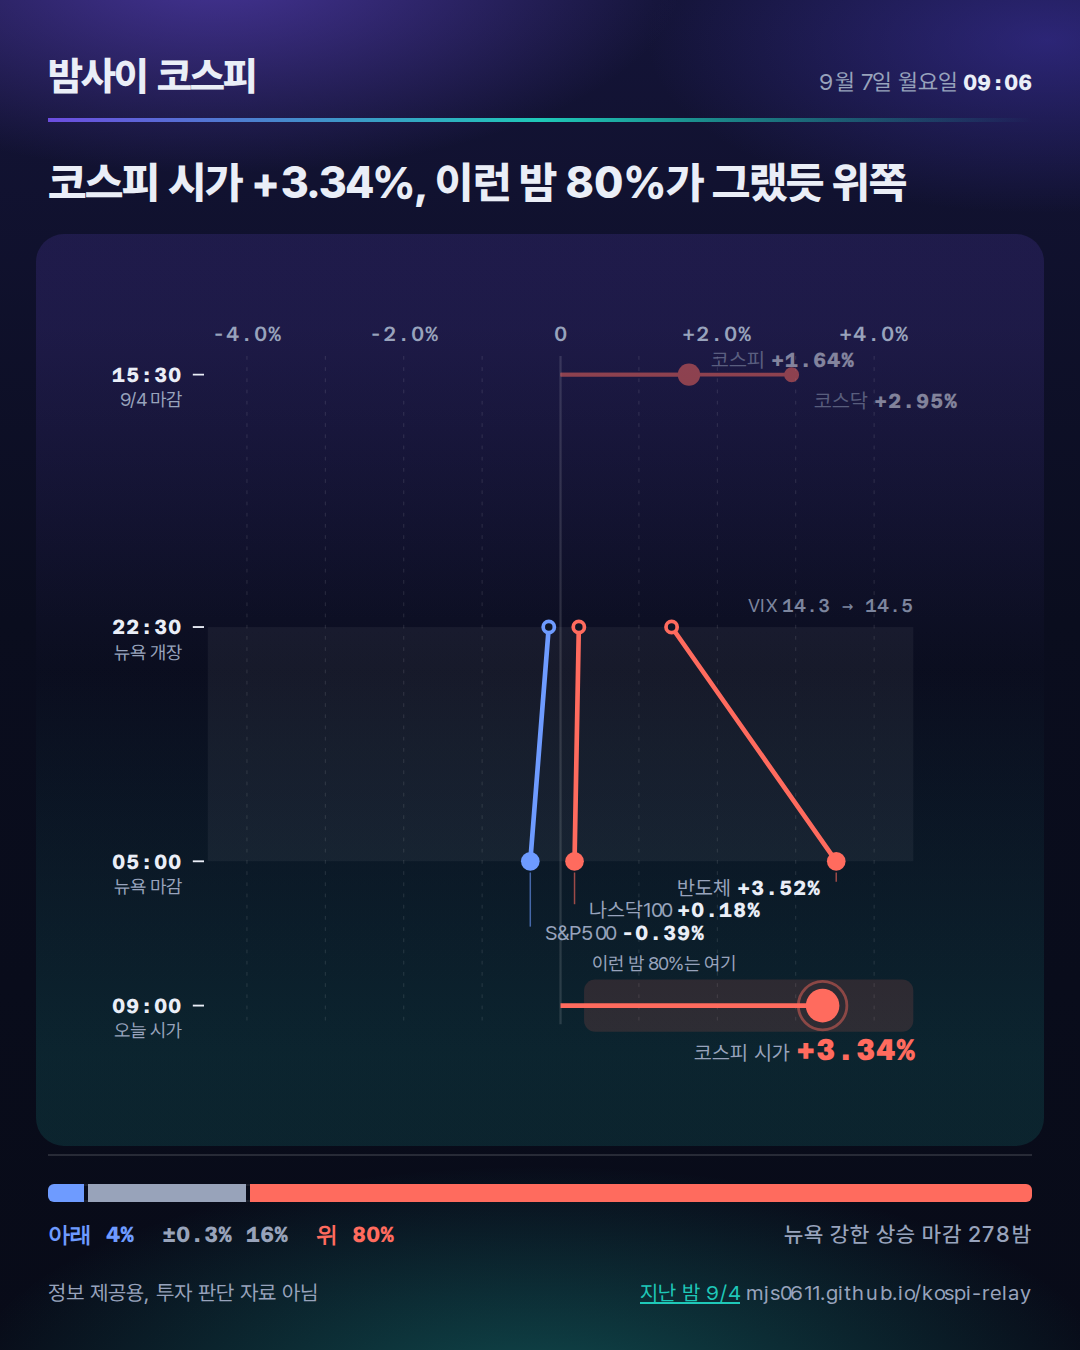
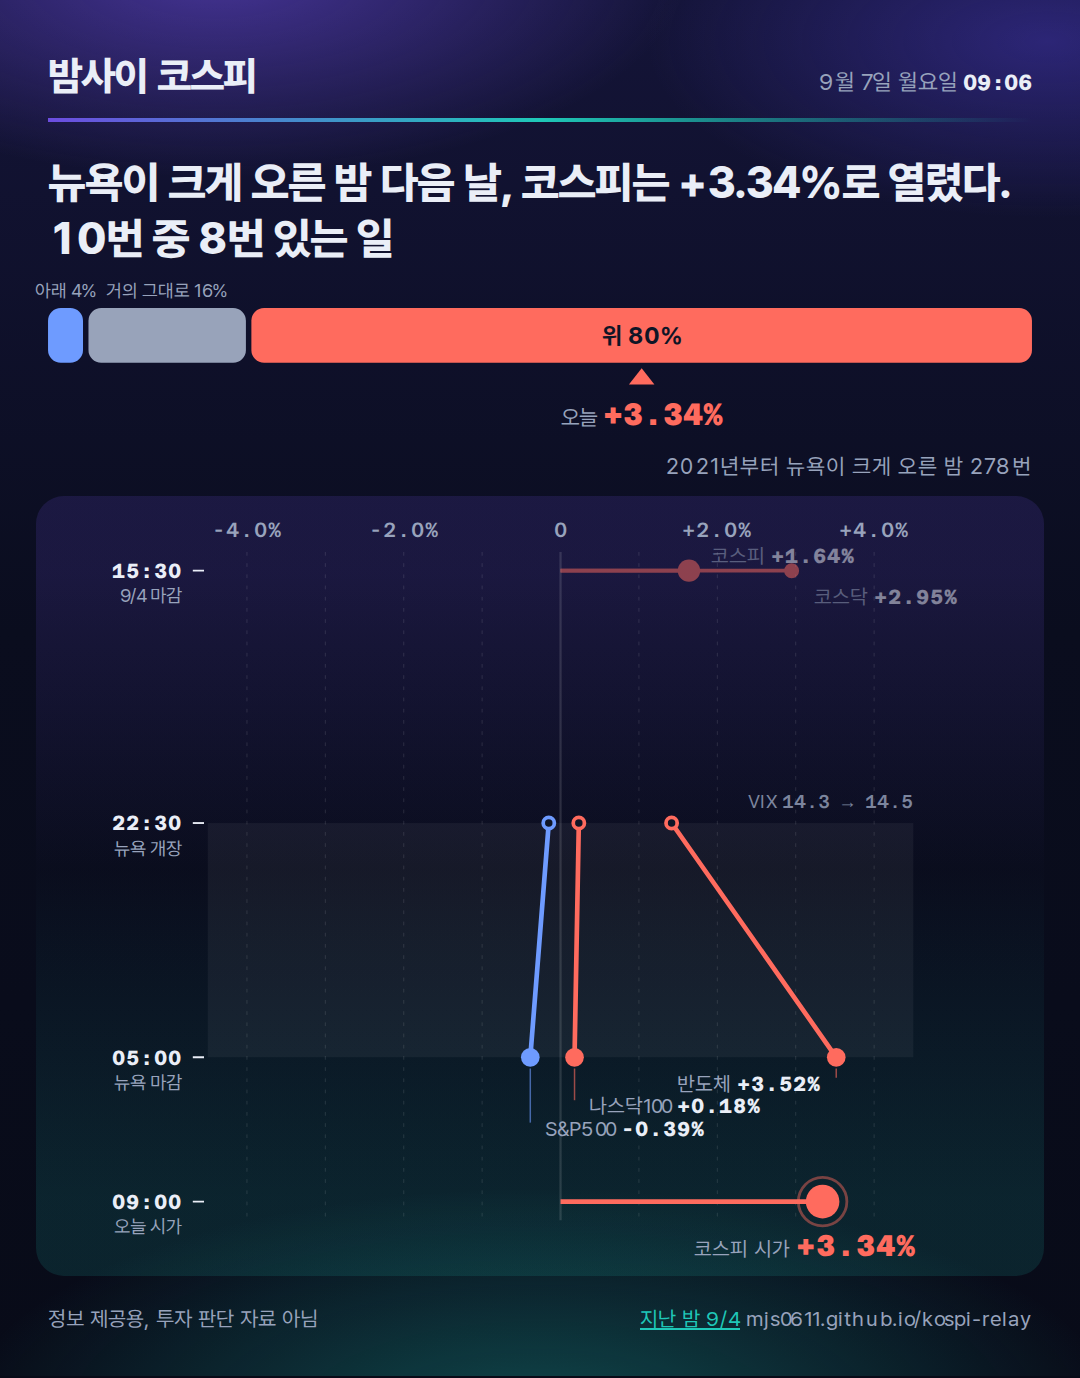
deploy: db82386d8631ba537fb2fa24145c9cd81058ee42

diff --git a/2026-09-07/index.html b/2026-09-07/index.html
@@ -1,7 +1,7 @@
 <!doctype html><html lang="ko"><head><meta charset="utf-8"><meta name="viewport" content="width=device-width,initial-scale=1">
 <title>밤사이 코스피 · 2026-09-07</title>
 <meta name="description" content="전일 코스피 마감에서 밤사이 뉴욕을 거쳐 오늘 코스피 시가까지, 한 장.">
-<meta property="og:title" content="밤사이 코스피 09.07"><meta property="og:image" content="https://mjs0611.github.io/kospi-relay/relay.png"><meta property="og:description" content="뉴욕이 이렇게 마감한 밤 278번, 코스피 시가는 80%가 위로 열렸다">
+<meta property="og:title" content="밤사이 코스피 09.07"><meta property="og:image" content="https://mjs0611.github.io/kospi-relay/relay.png"><meta property="og:description" content="뉴욕이 크게 오른 밤. 다음 날 코스피는 10번 중 8번 위로 열렸다">
 <link rel="stylesheet" href="https://cdn.jsdelivr.net/gh/orioncactus/pretendard@v1.3.9/dist/web/variable/pretendardvariable-dynamic-subset.min.css">
 <link href="https://fonts.googleapis.com/css2?family=Azeret+Mono:wght@500;700;800&display=swap" rel="stylesheet">
 <style>
@@ -25,20 +25,30 @@ h1{font-size:20px;font-weight:800;letter-spacing:-.02em;margin:0}
 .stamp{font-size:11.5px;color:var(--muted);text-align:right;line-height:1.5;letter-spacing:-.01em;white-space:nowrap}.stamp b{font-family:var(--mono);color:var(--ink);font-weight:700;font-size:11px}
 /* ★ 시간축 광원 — SVG 세로축이 곧 시간이다(위 15:30 전일 마감 → 아래 09:00 오늘 시가).
    축은 SVG 높이의 10~90% 구간(sy가 40..H-40으로 매핑)이라 스톱을 거기 맞췄다. 장식이 아니라 제목 */
-.chart{flex:1;display:flex;align-items:center;margin:10px -6px 0;border-radius:14px;overflow:hidden;
+.chart{flex:1;display:flex;align-items:center;margin:8px -6px 0;border-radius:14px;overflow:hidden;
 background:linear-gradient(180deg,rgba(108,77,224,.16) 10%,rgba(24,29,58,.05) 48%,rgba(31,200,184,.13) 90%)}
 svg{width:100%;height:auto;display:block}
 /* 헤드라인. 카드의 질문 또는 답, 한 문장. 색은 차트가 말한다. 글은 잉크 한 색 */
 .headline{font-size:22px;font-weight:800;letter-spacing:-.022em;line-height:1.3;margin:16px 0 2px;word-break:keep-all;font-variant-numeric:tabular-nums}
-.freq{border-top:1px solid var(--rule);padding-top:14px;margin-top:4px}
-.bar{display:flex;height:9px;border-radius:3px;overflow:hidden;gap:2px;box-shadow:inset 0 0 0 1px rgba(255,255,255,.08)}.seg{min-width:2px}
-.legend{display:flex;gap:14px;align-items:baseline;font-family:var(--mono);font-size:11px;font-weight:700;margin:9px 0 0}.legend .n{margin-left:auto;font-family:var(--sans);font-weight:500;color:var(--muted)}
+/* 빈도 막대: 카드의 주장. 칸의 폭이 곧 빈도, 마커가 오늘 */
+.freqbar{margin:18px 0 0;overflow:visible}.freqbar svg{width:100%;height:auto;display:block;overflow:visible}
+.cap{font-size:11px;color:var(--muted);margin:2px 0 0;text-align:right}
 footer{margin-top:auto;padding-top:14px;font-size:10.5px;color:var(--muted);line-height:1.55;display:flex;justify-content:space-between;gap:12px}
 footer a{color:var(--dawn)}
 @media (max-width:480px){.sheet{padding:18px 14px 16px}.lede{font-size:15px}header{flex-direction:column;align-items:flex-start;gap:4px}.stamp{text-align:left}}
 </style></head><body><div class="sheet">
 <header><h1>밤사이 코스피</h1><div class="stamp">9월 7일 월요일 <b>09:06</b></div></header>
-<p class="headline">코스피 시가 +3.34%, 이런 밤 80%가 그랬듯 위쪽</p>
+<p class="headline">뉴욕이 크게 오른 밤 다음 날, 코스피는 +3.34%로 열렸다. 10번 중 8번 있는 일</p>
+<div class="freqbar"><svg viewBox="0 0 540 78" xmlns="http://www.w3.org/2000/svg" font-family="var(--sans)">
+<rect x="0.0" y="0" width="19.2" height="30" rx="7" fill="var(--down)"/>
+<text x="9.6" y="-6" text-anchor="middle" fill="var(--muted)" font-size="10">아래 4%</text>
+<rect x="22.2" y="0" width="86.4" height="30" rx="7" fill="var(--flat)"/>
+<text x="65.4" y="-6" text-anchor="middle" fill="var(--muted)" font-size="10">거의 그대로 16%</text>
+<rect x="111.6" y="0" width="428.4" height="30" rx="7" fill="var(--up)"/>
+<text x="325.8" y="19.5" text-anchor="middle" fill="var(--paper)" font-size="13" font-weight="700">위 80%</text>
+<path d="M318.8,42 L332.8,42 L325.8,33 Z" fill="var(--up)"/>
+<text x="325.8" y="64" text-anchor="middle" fill="var(--ink)"><tspan fill="var(--muted)" font-size="12">오늘 </tspan><tspan font-family="var(--mono)" font-size="17" font-weight="800" fill="var(--up)">+3.34%</tspan></text>
+</svg></div><p class="cap">2021년부터 뉴욕이 크게 오른 밤 278번</p>
 <div class="chart"><svg viewBox="0 0 540 418" xmlns="http://www.w3.org/2000/svg" font-family="var(--mono)" font-size="11">
 <line x1="113.0" y1="30" x2="113.0" y2="388" stroke="var(--rule)" stroke-width="0.5" stroke-dasharray="2 4"/>
 <text x="113.0" y="22" text-anchor="middle" fill="var(--muted)">-4.0%</text>
@@ -91,13 +101,10 @@ footer a{color:var(--dawn)}
 <line x1="264.8" y1="306.7" x2="264.8" y2="335.7" stroke="var(--down)" stroke-width=".8" opacity=".6"/>
 <text x="272.8" y="342.7" text-anchor="start" fill="var(--ink)"><tspan font-family="var(--sans)" fill="var(--muted)">S&P500 </tspan><tspan font-weight="700">-0.39%</tspan></text>
 <text x="470" y="167.2" text-anchor="end" fill="var(--muted)" font-size="10" opacity=".8"><tspan font-family="var(--sans)">VIX </tspan>14.3 → 14.5</text>
-<rect x="293.6" y="364.0" width="176.4" height="28" rx="6" fill="var(--up)" opacity=".14"/>
-<text x="297.6" y="359.0" text-anchor="start" fill="var(--muted)" font-family="var(--sans)" font-size="10">이런 밤 80%는 여기</text>
 <line x1="281.0" y1="378.0" x2="421.4" y2="378.0" stroke="var(--up)" stroke-width="2.5"/>
 <circle cx="421.4" cy="378.0" r="9" fill="var(--up)"/>
 <circle cx="421.4" cy="378.0" r="13" fill="none" stroke="var(--up)" stroke-width="1.5" opacity=".45"/>
 <text x="412.0" y="407.0" text-anchor="middle" fill="var(--ink)"><tspan font-family="var(--sans)" fill="var(--muted)" font-size="11">코스피 시가 </tspan><tspan font-weight="800" font-size="16" fill="var(--up)">+3.34%</tspan></text>
 </svg></div>
-<section class="freq"><div class="bar"><div class="seg" style="flex:10;background:var(--down)"></div><div class="seg" style="flex:45;background:var(--flat)"></div><div class="seg" style="flex:223;background:var(--up)"></div></div><p class="legend"><span style="color:var(--down)">아래 4%</span><span style="color:var(--flat)">±0.3% 16%</span><span style="color:var(--up)">위 80%</span><span class="n">뉴욕 강한 상승 마감 278밤</span></p></section>
 <footer><span>정보 제공용, 투자 판단 자료 아님</span><span style="white-space:nowrap"><a href="../2026-09-04/">지난 밤 9/4</a> mjs0611.github.io/kospi-relay</span></footer>
 </div></body></html>

diff --git a/index.html b/index.html
@@ -1,7 +1,7 @@
 <!doctype html><html lang="ko"><head><meta charset="utf-8"><meta name="viewport" content="width=device-width,initial-scale=1">
 <title>밤사이 코스피 · 2026-09-07</title>
 <meta name="description" content="전일 코스피 마감에서 밤사이 뉴욕을 거쳐 오늘 코스피 시가까지, 한 장.">
-<meta property="og:title" content="밤사이 코스피 09.07"><meta property="og:image" content="https://mjs0611.github.io/kospi-relay/relay.png"><meta property="og:description" content="뉴욕이 이렇게 마감한 밤 278번, 코스피 시가는 80%가 위로 열렸다">
+<meta property="og:title" content="밤사이 코스피 09.07"><meta property="og:image" content="https://mjs0611.github.io/kospi-relay/relay.png"><meta property="og:description" content="뉴욕이 크게 오른 밤. 다음 날 코스피는 10번 중 8번 위로 열렸다">
 <link rel="stylesheet" href="https://cdn.jsdelivr.net/gh/orioncactus/pretendard@v1.3.9/dist/web/variable/pretendardvariable-dynamic-subset.min.css">
 <link href="https://fonts.googleapis.com/css2?family=Azeret+Mono:wght@500;700;800&display=swap" rel="stylesheet">
 <style>
@@ -25,20 +25,30 @@ h1{font-size:20px;font-weight:800;letter-spacing:-.02em;margin:0}
 .stamp{font-size:11.5px;color:var(--muted);text-align:right;line-height:1.5;letter-spacing:-.01em;white-space:nowrap}.stamp b{font-family:var(--mono);color:var(--ink);font-weight:700;font-size:11px}
 /* ★ 시간축 광원 — SVG 세로축이 곧 시간이다(위 15:30 전일 마감 → 아래 09:00 오늘 시가).
    축은 SVG 높이의 10~90% 구간(sy가 40..H-40으로 매핑)이라 스톱을 거기 맞췄다. 장식이 아니라 제목 */
-.chart{flex:1;display:flex;align-items:center;margin:10px -6px 0;border-radius:14px;overflow:hidden;
+.chart{flex:1;display:flex;align-items:center;margin:8px -6px 0;border-radius:14px;overflow:hidden;
 background:linear-gradient(180deg,rgba(108,77,224,.16) 10%,rgba(24,29,58,.05) 48%,rgba(31,200,184,.13) 90%)}
 svg{width:100%;height:auto;display:block}
 /* 헤드라인. 카드의 질문 또는 답, 한 문장. 색은 차트가 말한다. 글은 잉크 한 색 */
 .headline{font-size:22px;font-weight:800;letter-spacing:-.022em;line-height:1.3;margin:16px 0 2px;word-break:keep-all;font-variant-numeric:tabular-nums}
-.freq{border-top:1px solid var(--rule);padding-top:14px;margin-top:4px}
-.bar{display:flex;height:9px;border-radius:3px;overflow:hidden;gap:2px;box-shadow:inset 0 0 0 1px rgba(255,255,255,.08)}.seg{min-width:2px}
-.legend{display:flex;gap:14px;align-items:baseline;font-family:var(--mono);font-size:11px;font-weight:700;margin:9px 0 0}.legend .n{margin-left:auto;font-family:var(--sans);font-weight:500;color:var(--muted)}
+/* 빈도 막대: 카드의 주장. 칸의 폭이 곧 빈도, 마커가 오늘 */
+.freqbar{margin:18px 0 0;overflow:visible}.freqbar svg{width:100%;height:auto;display:block;overflow:visible}
+.cap{font-size:11px;color:var(--muted);margin:2px 0 0;text-align:right}
 footer{margin-top:auto;padding-top:14px;font-size:10.5px;color:var(--muted);line-height:1.55;display:flex;justify-content:space-between;gap:12px}
 footer a{color:var(--dawn)}
 @media (max-width:480px){.sheet{padding:18px 14px 16px}.lede{font-size:15px}header{flex-direction:column;align-items:flex-start;gap:4px}.stamp{text-align:left}}
 </style></head><body><div class="sheet">
 <header><h1>밤사이 코스피</h1><div class="stamp">9월 7일 월요일 <b>09:06</b></div></header>
-<p class="headline">코스피 시가 +3.34%, 이런 밤 80%가 그랬듯 위쪽</p>
+<p class="headline">뉴욕이 크게 오른 밤 다음 날, 코스피는 +3.34%로 열렸다. 10번 중 8번 있는 일</p>
+<div class="freqbar"><svg viewBox="0 0 540 78" xmlns="http://www.w3.org/2000/svg" font-family="var(--sans)">
+<rect x="0.0" y="0" width="19.2" height="30" rx="7" fill="var(--down)"/>
+<text x="9.6" y="-6" text-anchor="middle" fill="var(--muted)" font-size="10">아래 4%</text>
+<rect x="22.2" y="0" width="86.4" height="30" rx="7" fill="var(--flat)"/>
+<text x="65.4" y="-6" text-anchor="middle" fill="var(--muted)" font-size="10">거의 그대로 16%</text>
+<rect x="111.6" y="0" width="428.4" height="30" rx="7" fill="var(--up)"/>
+<text x="325.8" y="19.5" text-anchor="middle" fill="var(--paper)" font-size="13" font-weight="700">위 80%</text>
+<path d="M318.8,42 L332.8,42 L325.8,33 Z" fill="var(--up)"/>
+<text x="325.8" y="64" text-anchor="middle" fill="var(--ink)"><tspan fill="var(--muted)" font-size="12">오늘 </tspan><tspan font-family="var(--mono)" font-size="17" font-weight="800" fill="var(--up)">+3.34%</tspan></text>
+</svg></div><p class="cap">2021년부터 뉴욕이 크게 오른 밤 278번</p>
 <div class="chart"><svg viewBox="0 0 540 418" xmlns="http://www.w3.org/2000/svg" font-family="var(--mono)" font-size="11">
 <line x1="113.0" y1="30" x2="113.0" y2="388" stroke="var(--rule)" stroke-width="0.5" stroke-dasharray="2 4"/>
 <text x="113.0" y="22" text-anchor="middle" fill="var(--muted)">-4.0%</text>
@@ -91,13 +101,10 @@ footer a{color:var(--dawn)}
 <line x1="264.8" y1="306.7" x2="264.8" y2="335.7" stroke="var(--down)" stroke-width=".8" opacity=".6"/>
 <text x="272.8" y="342.7" text-anchor="start" fill="var(--ink)"><tspan font-family="var(--sans)" fill="var(--muted)">S&P500 </tspan><tspan font-weight="700">-0.39%</tspan></text>
 <text x="470" y="167.2" text-anchor="end" fill="var(--muted)" font-size="10" opacity=".8"><tspan font-family="var(--sans)">VIX </tspan>14.3 → 14.5</text>
-<rect x="293.6" y="364.0" width="176.4" height="28" rx="6" fill="var(--up)" opacity=".14"/>
-<text x="297.6" y="359.0" text-anchor="start" fill="var(--muted)" font-family="var(--sans)" font-size="10">이런 밤 80%는 여기</text>
 <line x1="281.0" y1="378.0" x2="421.4" y2="378.0" stroke="var(--up)" stroke-width="2.5"/>
 <circle cx="421.4" cy="378.0" r="9" fill="var(--up)"/>
 <circle cx="421.4" cy="378.0" r="13" fill="none" stroke="var(--up)" stroke-width="1.5" opacity=".45"/>
 <text x="412.0" y="407.0" text-anchor="middle" fill="var(--ink)"><tspan font-family="var(--sans)" fill="var(--muted)" font-size="11">코스피 시가 </tspan><tspan font-weight="800" font-size="16" fill="var(--up)">+3.34%</tspan></text>
 </svg></div>
-<section class="freq"><div class="bar"><div class="seg" style="flex:10;background:var(--down)"></div><div class="seg" style="flex:45;background:var(--flat)"></div><div class="seg" style="flex:223;background:var(--up)"></div></div><p class="legend"><span style="color:var(--down)">아래 4%</span><span style="color:var(--flat)">±0.3% 16%</span><span style="color:var(--up)">위 80%</span><span class="n">뉴욕 강한 상승 마감 278밤</span></p></section>
 <footer><span>정보 제공용, 투자 판단 자료 아님</span><span style="white-space:nowrap"><a href="./2026-09-04/">지난 밤 9/4</a> mjs0611.github.io/kospi-relay</span></footer>
 </div></body></html>
